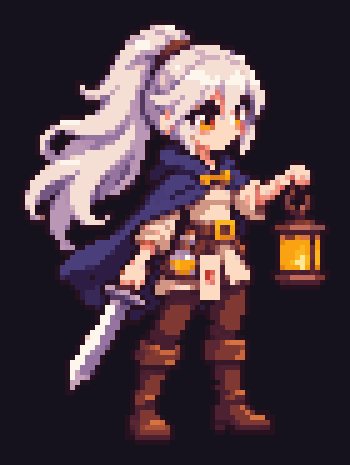
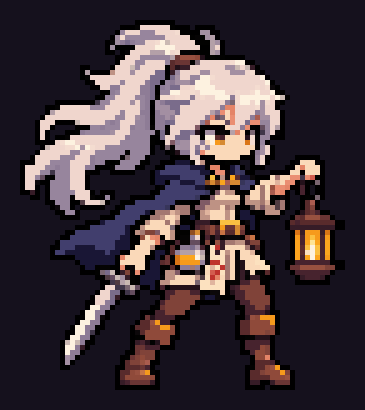
리라를 치비 픽셀 화풍(사용자 레퍼런스)으로 다시 생성, 65x74 적용 + 몸통 판정 22x60
Claude-Session: https://claude.ai/code/session_01KAe6Yh4AK4EFG9UVm4TpTC

diff --git a/js/render.js b/js/render.js
@@ -25,7 +25,7 @@ export class Renderer {
     this.lantern = { a: 0, v: 0 };
     this.squash = 0; this.flash = 0; this.zoom = 0; this.stunFx = new Map();
     this.debug = /debug=1/.test(location.search);
-    // 리라 픽셀 그림 (Higgsfield: 리라 디자인 + 사용자 샘플 화풍 → forge pixel_look로 픽셀 격자 맞춤). 기준점: 발 중앙 (34, 85)
+    // 리라 픽셀 그림 (Higgsfield: 리라 디자인 + 사용자 샘플 화풍 → forge pixel_look로 픽셀 격자 맞춤). 기준점: 발 중앙 (31, 74)
     this.liraImg = new Image(); this.liraImg.src = 'assets/lira.png';
     this.resize();
   }
@@ -231,7 +231,7 @@ export class Renderer {
       const bob = p.state === 'run' ? Math.abs(Math.sin(w.t * 0.45)) * 2 : p.state === 'idle' ? Math.sin(w.t * 0.08) * 0.6 : 0;
       g.save(); g.translate(cx, feet - bob); g.rotate(lean * f); g.scale(sx * f, sy);
       const img = p.state === 'hurt' && (w.t >> 1) % 2 ? this.tinted('#ff3c50') : this.liraImg;
-      g.drawImage(img, -34, -85);
+      g.drawImage(img, -31, -74);
       g.restore();
       this.drawParryArc(g, p, cx, feet, f);
       return;

diff --git a/js/core/config.js b/js/core/config.js
@@ -13,7 +13,7 @@ export const CFG = {
     jumpMaxH: 96,
     coyoteF: 6, bufferF: 8,
     hp: 5, iframesHurt: 60, hurtStunF: 14,
-    w: 20, h: 66,       // 리라 그림(62x85, 큰 머리)에 맞춘 몸통 판정
+    w: 22, h: 60,       // 리라 치비 그림(65x74)에 맞춘 몸통 판정
   },
   attack: { dmg: [10, 10, 18], startupF: 4, activeF: 3, recoveryF: 10, range: 38, comboWindowF: 14, hitstop: [4, 4, 7], push: [4, 4, 6.5], lunge: 2.1 },
   parry: {
